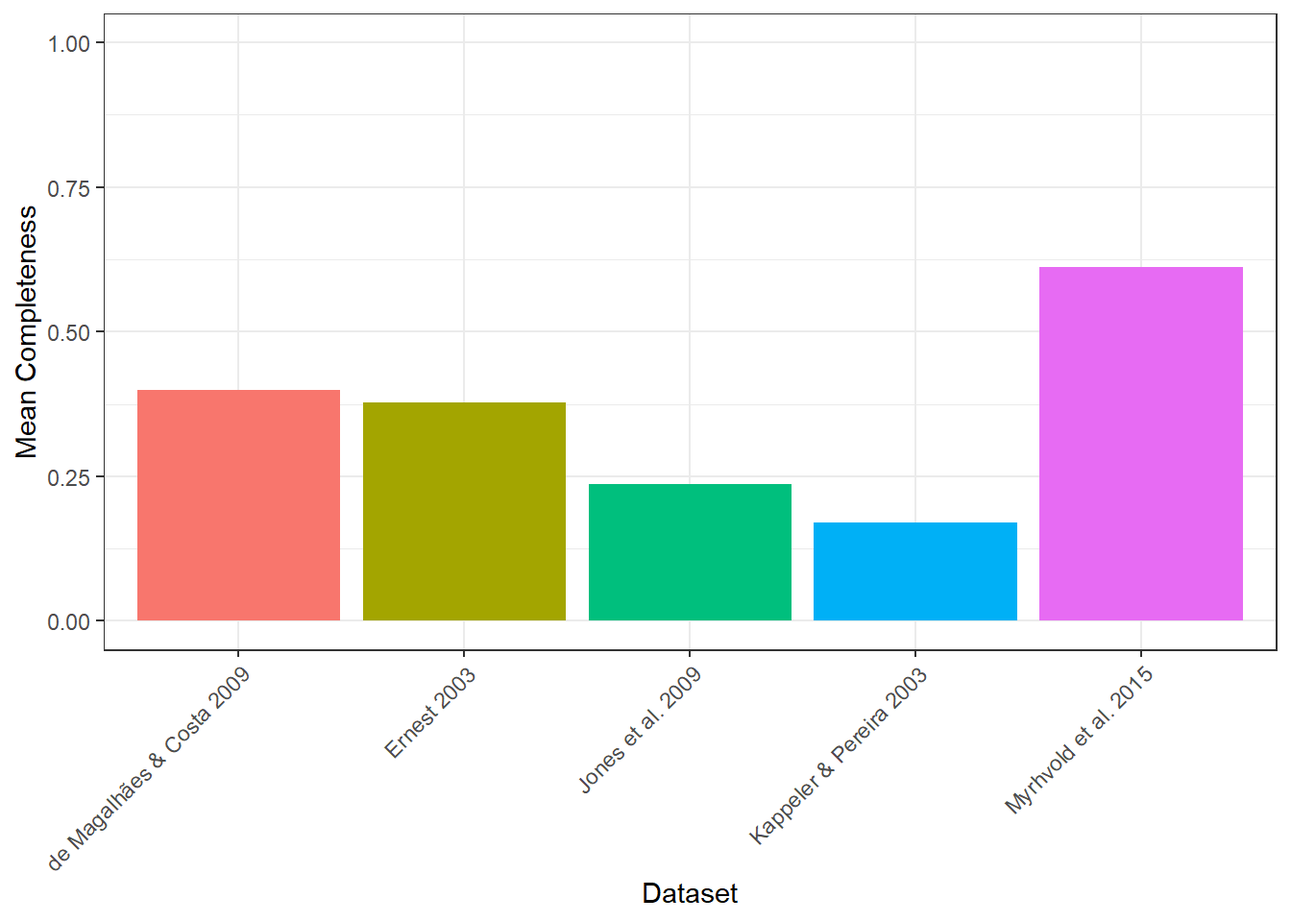
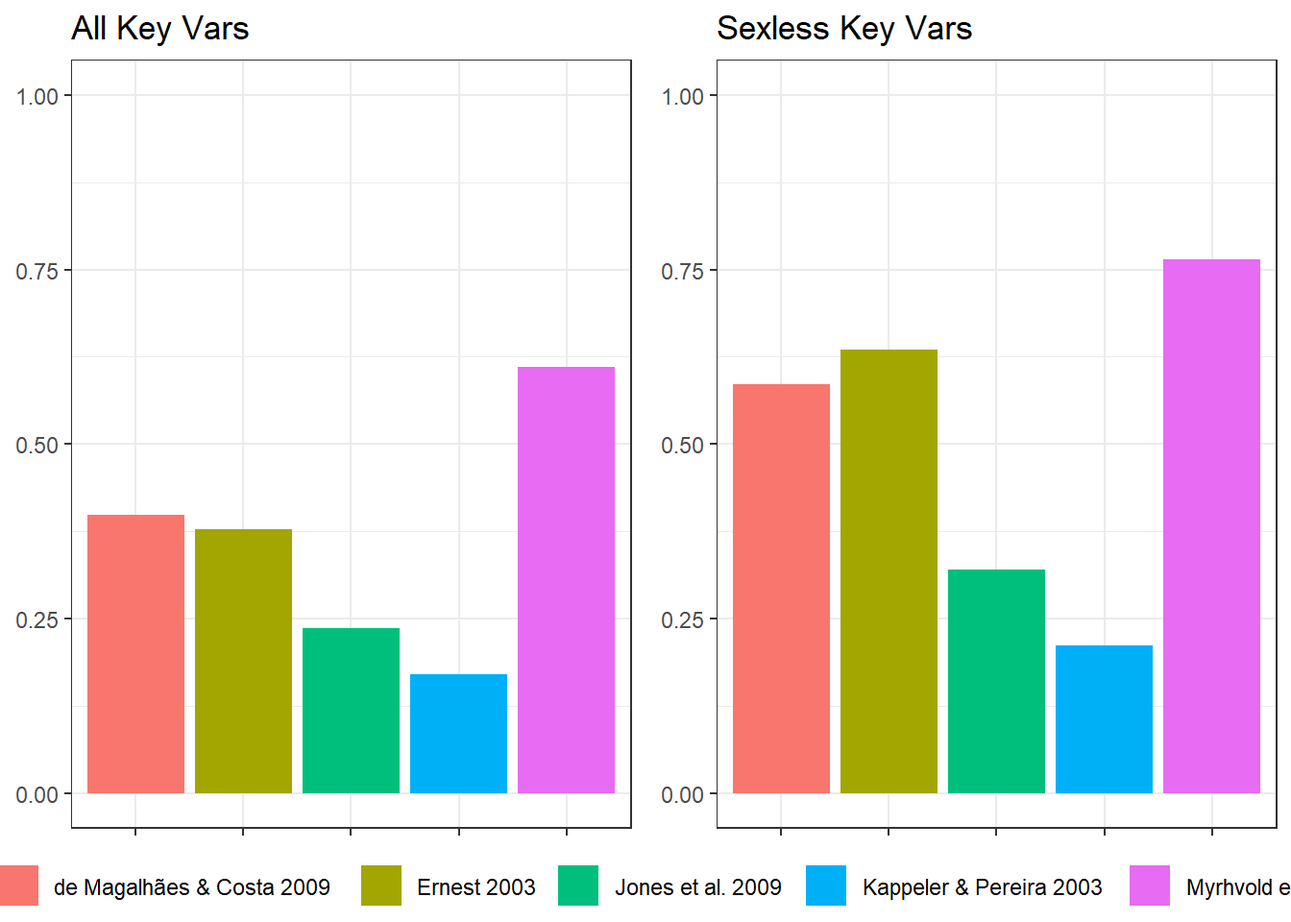
setup.R: - alphabetized the package list Database-Analysis.qmd: - completeness plots: -- fixed color overwrite of bar caps in composite plot -- replaced white bar cap with 50% opaquity color cap -- removed side by side bar charts

diff --git a/Database-Analysis.html b/Database-Analysis.html
@@ -188,7 +188,7 @@ window.Quarto = {
 <div class="sourceCode cell-code" id="cb2"><pre class="sourceCode r code-with-copy"><code class="sourceCode r"><span id="cb2-1"><a href="#cb2-1" aria-hidden="true" tabindex="-1"></a>sources <span class="ot">=</span> <span class="fu">c</span>(<span class="st">"Myrhvold et al. 2015"</span>, <span class="st">"de Magalhães &amp; Costa 2009"</span>, <span class="st">"Ernest 2003"</span>, <span class="st">"Jones et al. 2009"</span>, <span class="st">"Kappeler &amp; Pereira 2003"</span>)</span>
 <span id="cb2-2"><a href="#cb2-2" aria-hidden="true" tabindex="-1"></a></span>
 <span id="cb2-3"><a href="#cb2-3" aria-hidden="true" tabindex="-1"></a><span class="do">## selecting vars for cross-database comparison</span></span>
-<span id="cb2-4"><a href="#cb2-4" aria-hidden="true" tabindex="-1"></a>amniote_s <span class="ot">&lt;-</span> amniote_p <span class="sc">%&gt;%</span> </span>
+<span id="cb2-4"><a href="#cb2-4" aria-hidden="true" tabindex="-1"></a>amniote_s <span class="ot">&lt;-</span> amniote <span class="sc">%&gt;%</span> </span>
 <span id="cb2-5"><a href="#cb2-5" aria-hidden="true" tabindex="-1"></a>  <span class="fu">transmute</span>(</span>
 <span id="cb2-6"><a href="#cb2-6" aria-hidden="true" tabindex="-1"></a>    <span class="at">species =</span> <span class="fu">paste</span>(genus, species),</span>
 <span id="cb2-7"><a href="#cb2-7" aria-hidden="true" tabindex="-1"></a>    <span class="at">body_mass_u =</span> adult_body_mass_g,</span>
@@ -205,7 +205,7 @@ window.Quarto = {
 <span id="cb2-18"><a href="#cb2-18" aria-hidden="true" tabindex="-1"></a>    <span class="at">source =</span> sources[<span class="dv">1</span>]</span>
 <span id="cb2-19"><a href="#cb2-19" aria-hidden="true" tabindex="-1"></a>  )</span>
 <span id="cb2-20"><a href="#cb2-20" aria-hidden="true" tabindex="-1"></a></span>
-<span id="cb2-21"><a href="#cb2-21" aria-hidden="true" tabindex="-1"></a>AnAge_s <span class="ot">&lt;-</span> AnAge_p <span class="sc">%&gt;%</span> </span>
+<span id="cb2-21"><a href="#cb2-21" aria-hidden="true" tabindex="-1"></a>AnAge_s <span class="ot">&lt;-</span> AnAge <span class="sc">%&gt;%</span> </span>
 <span id="cb2-22"><a href="#cb2-22" aria-hidden="true" tabindex="-1"></a>  <span class="fu">transmute</span>(</span>
 <span id="cb2-23"><a href="#cb2-23" aria-hidden="true" tabindex="-1"></a>    <span class="at">species =</span> <span class="fu">paste</span>(Genus, Species),</span>
 <span id="cb2-24"><a href="#cb2-24" aria-hidden="true" tabindex="-1"></a>    <span class="at">body_mass_u =</span> <span class="st">`</span><span class="at">Body mass (g)</span><span class="st">`</span>,</span>
@@ -222,7 +222,7 @@ window.Quarto = {
 <span id="cb2-35"><a href="#cb2-35" aria-hidden="true" tabindex="-1"></a>    <span class="at">source =</span> sources[<span class="dv">2</span>]</span>
 <span id="cb2-36"><a href="#cb2-36" aria-hidden="true" tabindex="-1"></a>  )</span>
 <span id="cb2-37"><a href="#cb2-37" aria-hidden="true" tabindex="-1"></a></span>
-<span id="cb2-38"><a href="#cb2-38" aria-hidden="true" tabindex="-1"></a>ernest_s <span class="ot">&lt;-</span> ernest_p <span class="sc">%&gt;%</span> </span>
+<span id="cb2-38"><a href="#cb2-38" aria-hidden="true" tabindex="-1"></a>ernest_s <span class="ot">&lt;-</span> ernest <span class="sc">%&gt;%</span> </span>
 <span id="cb2-39"><a href="#cb2-39" aria-hidden="true" tabindex="-1"></a>  <span class="fu">transmute</span>(</span>
 <span id="cb2-40"><a href="#cb2-40" aria-hidden="true" tabindex="-1"></a>    <span class="at">species =</span> <span class="fu">paste</span>(Genus, species),</span>
 <span id="cb2-41"><a href="#cb2-41" aria-hidden="true" tabindex="-1"></a>    <span class="at">body_mass_u =</span> <span class="cn">NA</span>,</span>
@@ -239,7 +239,7 @@ window.Quarto = {
 <span id="cb2-52"><a href="#cb2-52" aria-hidden="true" tabindex="-1"></a>    <span class="at">source =</span> sources[<span class="dv">3</span>]</span>
 <span id="cb2-53"><a href="#cb2-53" aria-hidden="true" tabindex="-1"></a>  )</span>
 <span id="cb2-54"><a href="#cb2-54" aria-hidden="true" tabindex="-1"></a></span>
-<span id="cb2-55"><a href="#cb2-55" aria-hidden="true" tabindex="-1"></a>pan_s <span class="ot">&lt;-</span> pan_p <span class="sc">%&gt;%</span> </span>
+<span id="cb2-55"><a href="#cb2-55" aria-hidden="true" tabindex="-1"></a>pan_s <span class="ot">&lt;-</span> pan <span class="sc">%&gt;%</span> </span>
 <span id="cb2-56"><a href="#cb2-56" aria-hidden="true" tabindex="-1"></a>  <span class="fu">transmute</span>(</span>
 <span id="cb2-57"><a href="#cb2-57" aria-hidden="true" tabindex="-1"></a>    <span class="at">species =</span> <span class="fu">paste</span>(MSW05_Genus, MSW05_Species),</span>
 <span id="cb2-58"><a href="#cb2-58" aria-hidden="true" tabindex="-1"></a>    <span class="at">body_mass_u =</span> <span class="st">`</span><span class="at">5-1_AdultBodyMass_g</span><span class="st">`</span>,</span>
@@ -385,7 +385,7 @@ window.Quarto = {
 <span id="cb4-18"><a href="#cb4-18" aria-hidden="true" tabindex="-1"></a>  <span class="fu">group_by</span>(source, trait) <span class="sc">%&gt;%</span> </span>
 <span id="cb4-19"><a href="#cb4-19" aria-hidden="true" tabindex="-1"></a>  <span class="fu">summarize</span>(<span class="at">prop_missing =</span> <span class="fu">mean</span>(<span class="fu">is.na</span>(value)), <span class="at">.groups =</span> <span class="st">"drop"</span>)</span>
 <span id="cb4-20"><a href="#cb4-20" aria-hidden="true" tabindex="-1"></a></span>
-<span id="cb4-21"><a href="#cb4-21" aria-hidden="true" tabindex="-1"></a>missingness2 <span class="ot">&lt;-</span> key_vals <span class="sc">%&gt;%</span></span>
+<span id="cb4-21"><a href="#cb4-21" aria-hidden="true" tabindex="-1"></a>missingness_no_sex <span class="ot">&lt;-</span> key_vals <span class="sc">%&gt;%</span></span>
 <span id="cb4-22"><a href="#cb4-22" aria-hidden="true" tabindex="-1"></a>  <span class="fu">select</span>(<span class="sc">-</span><span class="fu">any_of</span>(<span class="fu">c</span>(<span class="st">"body_mass_u"</span>, <span class="st">"body_mass_f"</span>, <span class="st">"body_mass_m"</span>, <span class="st">"age_at_maturity_u"</span>, <span class="st">"age_at_maturity_f"</span>, <span class="st">"age_at_maturity_m"</span>))) <span class="sc">%&gt;%</span> </span>
 <span id="cb4-23"><a href="#cb4-23" aria-hidden="true" tabindex="-1"></a>  <span class="fu">pivot_longer</span>(<span class="at">cols =</span> <span class="sc">-</span><span class="fu">c</span>(species, source), </span>
 <span id="cb4-24"><a href="#cb4-24" aria-hidden="true" tabindex="-1"></a>               <span class="at">names_to =</span> <span class="st">"trait"</span>, </span>
@@ -411,7 +411,7 @@ window.Quarto = {
 <span id="cb4-44"><a href="#cb4-44" aria-hidden="true" tabindex="-1"></a>  ))</span>
 <span id="cb4-45"><a href="#cb4-45" aria-hidden="true" tabindex="-1"></a></span>
 <span id="cb4-46"><a href="#cb4-46" aria-hidden="true" tabindex="-1"></a><span class="do">## renames traits to look pretty on graph</span></span>
-<span id="cb4-47"><a href="#cb4-47" aria-hidden="true" tabindex="-1"></a>missingness2 <span class="ot">&lt;-</span> missingness2 <span class="sc">%&gt;%</span></span>
+<span id="cb4-47"><a href="#cb4-47" aria-hidden="true" tabindex="-1"></a>missingness_no_sex <span class="ot">&lt;-</span> missingness_no_sex <span class="sc">%&gt;%</span></span>
 <span id="cb4-48"><a href="#cb4-48" aria-hidden="true" tabindex="-1"></a>  <span class="fu">mutate</span>(<span class="at">trait =</span> <span class="fu">case_when</span>(</span>
 <span id="cb4-49"><a href="#cb4-49" aria-hidden="true" tabindex="-1"></a>    trait <span class="sc">==</span> <span class="st">"max_longevity"</span> <span class="sc">~</span> <span class="st">"Lifespan (Years)"</span>,</span>
 <span id="cb4-50"><a href="#cb4-50" aria-hidden="true" tabindex="-1"></a>    trait <span class="sc">==</span> <span class="st">"IBI"</span> <span class="sc">~</span> <span class="st">"Interbirth Interval (Days)"</span>,</span>
@@ -448,14 +448,37 @@ window.Quarto = {
 <span id="cb5-13"><a href="#cb5-13" aria-hidden="true" tabindex="-1"></a>  <span class="fu">mutate</span>(<span class="at">mean_completeness =</span> <span class="dv">1</span> <span class="sc">-</span> mean_missingness)</span>
 <span id="cb5-14"><a href="#cb5-14" aria-hidden="true" tabindex="-1"></a></span>
 <span id="cb5-15"><a href="#cb5-15" aria-hidden="true" tabindex="-1"></a><span class="do">## removing sexed variables</span></span>
-<span id="cb5-16"><a href="#cb5-16" aria-hidden="true" tabindex="-1"></a>mean_missing_no_sex <span class="ot">&lt;-</span> missingness2 <span class="sc">%&gt;%</span> </span>
+<span id="cb5-16"><a href="#cb5-16" aria-hidden="true" tabindex="-1"></a>mean_missing_no_sex <span class="ot">&lt;-</span> missingness_no_sex <span class="sc">%&gt;%</span> </span>
 <span id="cb5-17"><a href="#cb5-17" aria-hidden="true" tabindex="-1"></a>  <span class="fu">group_by</span>(source) <span class="sc">%&gt;%</span> </span>
 <span id="cb5-18"><a href="#cb5-18" aria-hidden="true" tabindex="-1"></a>  <span class="fu">summarise</span>(</span>
-<span id="cb5-19"><a href="#cb5-19" aria-hidden="true" tabindex="-1"></a>    <span class="at">mean_missingness =</span> <span class="fu">mean</span>(prop_missing)</span>
+<span id="cb5-19"><a href="#cb5-19" aria-hidden="true" tabindex="-1"></a>    <span class="at">mean_missingness_no_sex =</span> <span class="fu">mean</span>(prop_missing)</span>
 <span id="cb5-20"><a href="#cb5-20" aria-hidden="true" tabindex="-1"></a>  )</span>
 <span id="cb5-21"><a href="#cb5-21" aria-hidden="true" tabindex="-1"></a></span>
-<span id="cb5-22"><a href="#cb5-22" aria-hidden="true" tabindex="-1"></a>mean_complete_no_sex <span class="ot">&lt;-</span> mean_missing_no_sex <span class="sc">%&gt;%</span> </span>
-<span id="cb5-23"><a href="#cb5-23" aria-hidden="true" tabindex="-1"></a>  <span class="fu">mutate</span>(<span class="at">mean_completeness =</span> <span class="dv">1</span> <span class="sc">-</span> mean_missingness)</span></code><button title="Copy to Clipboard" class="code-copy-button"><i class="bi"></i></button></pre></div>
+<span id="cb5-22"><a href="#cb5-22" aria-hidden="true" tabindex="-1"></a><span class="do">## takes the inverse proportion of the mean missingness</span></span>
+<span id="cb5-23"><a href="#cb5-23" aria-hidden="true" tabindex="-1"></a><span class="do">## for each database to give mean completeness</span></span>
+<span id="cb5-24"><a href="#cb5-24" aria-hidden="true" tabindex="-1"></a>mean_complete_no_sex <span class="ot">&lt;-</span> mean_missing_no_sex <span class="sc">%&gt;%</span> </span>
+<span id="cb5-25"><a href="#cb5-25" aria-hidden="true" tabindex="-1"></a>  <span class="fu">mutate</span>(<span class="at">mean_completeness_no_sex =</span> <span class="dv">1</span> <span class="sc">-</span> mean_missingness_no_sex)</span>
+<span id="cb5-26"><a href="#cb5-26" aria-hidden="true" tabindex="-1"></a></span>
+<span id="cb5-27"><a href="#cb5-27" aria-hidden="true" tabindex="-1"></a>composite_completeness <span class="ot">&lt;-</span> mean_complete <span class="sc">%&gt;%</span> </span>
+<span id="cb5-28"><a href="#cb5-28" aria-hidden="true" tabindex="-1"></a>  <span class="fu">inner_join</span>(mean_complete_no_sex, <span class="at">by =</span> <span class="st">"source"</span>) <span class="sc">%&gt;%</span> </span>
+<span id="cb5-29"><a href="#cb5-29" aria-hidden="true" tabindex="-1"></a>  <span class="fu">mutate</span>(</span>
+<span id="cb5-30"><a href="#cb5-30" aria-hidden="true" tabindex="-1"></a>    <span class="at">cap =</span> <span class="fu">pmax</span>(<span class="dv">0</span>, mean_completeness_no_sex <span class="sc">-</span> mean_completeness)</span>
+<span id="cb5-31"><a href="#cb5-31" aria-hidden="true" tabindex="-1"></a>  )</span>
+<span id="cb5-32"><a href="#cb5-32" aria-hidden="true" tabindex="-1"></a></span>
+<span id="cb5-33"><a href="#cb5-33" aria-hidden="true" tabindex="-1"></a>composite_plot <span class="ot">&lt;-</span> composite_completeness <span class="sc">%&gt;%</span> </span>
+<span id="cb5-34"><a href="#cb5-34" aria-hidden="true" tabindex="-1"></a>  <span class="fu">select</span>(source, mean_completeness, cap) <span class="sc">%&gt;%</span> </span>
+<span id="cb5-35"><a href="#cb5-35" aria-hidden="true" tabindex="-1"></a>  <span class="fu">pivot_longer</span>(</span>
+<span id="cb5-36"><a href="#cb5-36" aria-hidden="true" tabindex="-1"></a>    <span class="at">cols =</span> <span class="fu">c</span>(mean_completeness, cap),</span>
+<span id="cb5-37"><a href="#cb5-37" aria-hidden="true" tabindex="-1"></a>    <span class="at">names_to =</span> <span class="st">"segment"</span>,</span>
+<span id="cb5-38"><a href="#cb5-38" aria-hidden="true" tabindex="-1"></a>    <span class="at">values_to =</span> <span class="st">"value"</span></span>
+<span id="cb5-39"><a href="#cb5-39" aria-hidden="true" tabindex="-1"></a>  ) <span class="sc">%&gt;%</span> </span>
+<span id="cb5-40"><a href="#cb5-40" aria-hidden="true" tabindex="-1"></a>  <span class="fu">mutate</span>(</span>
+<span id="cb5-41"><a href="#cb5-41" aria-hidden="true" tabindex="-1"></a>    <span class="at">segment =</span> <span class="fu">recode</span>(segment,</span>
+<span id="cb5-42"><a href="#cb5-42" aria-hidden="true" tabindex="-1"></a>                     <span class="at">mean_completeness =</span> <span class="st">"All Key Vars"</span>,</span>
+<span id="cb5-43"><a href="#cb5-43" aria-hidden="true" tabindex="-1"></a>                     <span class="at">cap =</span> <span class="st">"Sexless Key Vars"</span></span>
+<span id="cb5-44"><a href="#cb5-44" aria-hidden="true" tabindex="-1"></a>                     ),</span>
+<span id="cb5-45"><a href="#cb5-45" aria-hidden="true" tabindex="-1"></a>    <span class="at">source =</span> <span class="fu">factor</span>(source, <span class="at">levels =</span> <span class="fu">unique</span>(source))</span>
+<span id="cb5-46"><a href="#cb5-46" aria-hidden="true" tabindex="-1"></a>  )</span></code><button title="Copy to Clipboard" class="code-copy-button"><i class="bi"></i></button></pre></div>
 </details>
 </div>
 </section>
@@ -464,7 +487,7 @@ window.Quarto = {
 <div class="cell">
 <details class="code-fold">
 <summary>Code</summary>
-<div class="sourceCode cell-code" id="cb6"><pre class="sourceCode r code-with-copy"><code class="sourceCode r"><span id="cb6-1"><a href="#cb6-1" aria-hidden="true" tabindex="-1"></a><span class="fu">ggplot</span>(missingness, <span class="fu">aes</span>(<span class="at">x =</span> source, <span class="at">y =</span> trait, <span class="at">fill =</span> prop_missing)) <span class="sc">+</span></span>
+<div class="sourceCode cell-code" id="cb6"><pre class="sourceCode r code-with-copy"><code class="sourceCode r"><span id="cb6-1"><a href="#cb6-1" aria-hidden="true" tabindex="-1"></a>prop_missing <span class="ot">&lt;-</span> <span class="fu">ggplot</span>(missingness, <span class="fu">aes</span>(<span class="at">x =</span> source, <span class="at">y =</span> trait, <span class="at">fill =</span> prop_missing)) <span class="sc">+</span></span>
 <span id="cb6-2"><a href="#cb6-2" aria-hidden="true" tabindex="-1"></a>  <span class="fu">geom_tile</span>(<span class="at">color =</span> <span class="st">"snow"</span>) <span class="sc">+</span></span>
 <span id="cb6-3"><a href="#cb6-3" aria-hidden="true" tabindex="-1"></a>  <span class="fu">scale_fill_gradientn</span>(</span>
 <span id="cb6-4"><a href="#cb6-4" aria-hidden="true" tabindex="-1"></a>    <span class="at">colors =</span> <span class="fu">rev</span>(colorspace<span class="sc">::</span><span class="fu">heat_hcl</span>(<span class="dv">100</span>)),</span>
@@ -481,13 +504,6 @@ window.Quarto = {
 <span id="cb6-15"><a href="#cb6-15" aria-hidden="true" tabindex="-1"></a>    <span class="at">x =</span> <span class="st">"Dataset"</span>, </span>
 <span id="cb6-16"><a href="#cb6-16" aria-hidden="true" tabindex="-1"></a>    <span class="at">y =</span> <span class="st">"Trait"</span>)</span></code><button title="Copy to Clipboard" class="code-copy-button"><i class="bi"></i></button></pre></div>
 </details>
-<div class="cell-output-display">
-<div>
-<figure class="figure">
-<p><img src="Database-Analysis_files/figure-html/heatmap%20visualization-1.png" class="img-fluid figure-img" width="672"></p>
-</figure>
-</div>
-</div>
 </div>
 <p>Trends:</p>
 <ul>
@@ -499,49 +515,48 @@ window.Quarto = {
 <div class="cell">
 <details class="code-fold">
 <summary>Code</summary>
-<div class="sourceCode cell-code" id="cb7"><pre class="sourceCode r code-with-copy"><code class="sourceCode r"><span id="cb7-1"><a href="#cb7-1" aria-hidden="true" tabindex="-1"></a><span class="fu">ggplot</span>(mean_complete,</span>
-<span id="cb7-2"><a href="#cb7-2" aria-hidden="true" tabindex="-1"></a>       <span class="fu">aes</span>(<span class="at">x =</span> source, <span class="at">y =</span> mean_completeness, <span class="at">fill =</span> source)) <span class="sc">+</span></span>
-<span id="cb7-3"><a href="#cb7-3" aria-hidden="true" tabindex="-1"></a>  <span class="fu">geom_col</span>(<span class="at">show.legend =</span> <span class="cn">FALSE</span>) <span class="sc">+</span></span>
-<span id="cb7-4"><a href="#cb7-4" aria-hidden="true" tabindex="-1"></a>  <span class="fu">labs</span>(</span>
-<span id="cb7-5"><a href="#cb7-5" aria-hidden="true" tabindex="-1"></a>    <span class="at">x =</span> <span class="st">"Dataset"</span>,</span>
-<span id="cb7-6"><a href="#cb7-6" aria-hidden="true" tabindex="-1"></a>    <span class="at">y =</span> <span class="st">"Mean Completeness"</span></span>
-<span id="cb7-7"><a href="#cb7-7" aria-hidden="true" tabindex="-1"></a>  ) <span class="sc">+</span></span>
-<span id="cb7-8"><a href="#cb7-8" aria-hidden="true" tabindex="-1"></a>  <span class="fu">ylim</span>(<span class="dv">0</span>, <span class="dv">1</span>) <span class="sc">+</span> </span>
-<span id="cb7-9"><a href="#cb7-9" aria-hidden="true" tabindex="-1"></a>  <span class="fu">theme_bw</span>() <span class="sc">+</span></span>
-<span id="cb7-10"><a href="#cb7-10" aria-hidden="true" tabindex="-1"></a>  <span class="fu">theme</span>(<span class="at">axis.text.x =</span> <span class="fu">element_text</span>(<span class="at">angle =</span> <span class="dv">45</span>, <span class="at">hjust =</span> <span class="dv">1</span>))</span></code><button title="Copy to Clipboard" class="code-copy-button"><i class="bi"></i></button></pre></div>
+<div class="sourceCode cell-code" id="cb7"><pre class="sourceCode r code-with-copy"><code class="sourceCode r"><span id="cb7-1"><a href="#cb7-1" aria-hidden="true" tabindex="-1"></a><span class="co"># make a named palette once so fill &amp; color match perfectly</span></span>
+<span id="cb7-2"><a href="#cb7-2" aria-hidden="true" tabindex="-1"></a>src_levels <span class="ot">&lt;-</span> <span class="fu">levels</span>(composite_plot<span class="sc">$</span>source)</span>
+<span id="cb7-3"><a href="#cb7-3" aria-hidden="true" tabindex="-1"></a>src_pal <span class="ot">&lt;-</span> <span class="fu">setNames</span>(scales<span class="sc">::</span><span class="fu">hue_pal</span>()(<span class="fu">length</span>(src_levels)), src_levels)</span>
+<span id="cb7-4"><a href="#cb7-4" aria-hidden="true" tabindex="-1"></a></span>
+<span id="cb7-5"><a href="#cb7-5" aria-hidden="true" tabindex="-1"></a><span class="fu">ggplot</span>(composite_completeness, <span class="fu">aes</span>(<span class="at">x =</span> source)) <span class="sc">+</span></span>
+<span id="cb7-6"><a href="#cb7-6" aria-hidden="true" tabindex="-1"></a>  <span class="co"># draw Sexless first (white interior, colored outline)</span></span>
+<span id="cb7-7"><a href="#cb7-7" aria-hidden="true" tabindex="-1"></a>  <span class="fu">geom_col</span>(</span>
+<span id="cb7-8"><a href="#cb7-8" aria-hidden="true" tabindex="-1"></a>    <span class="fu">aes</span>(<span class="at">y =</span> mean_completeness_no_sex, <span class="at">fill =</span> source, <span class="at">color =</span> source),</span>
+<span id="cb7-9"><a href="#cb7-9" aria-hidden="true" tabindex="-1"></a>    <span class="at">alpha =</span> <span class="fl">0.5</span>,</span>
+<span id="cb7-10"><a href="#cb7-10" aria-hidden="true" tabindex="-1"></a>    <span class="at">width =</span> <span class="fl">0.75</span>,</span>
+<span id="cb7-11"><a href="#cb7-11" aria-hidden="true" tabindex="-1"></a>    <span class="at">linewidth =</span> <span class="fl">0.6</span>,</span>
+<span id="cb7-12"><a href="#cb7-12" aria-hidden="true" tabindex="-1"></a>    <span class="at">show.legend =</span> <span class="cn">FALSE</span></span>
+<span id="cb7-13"><a href="#cb7-13" aria-hidden="true" tabindex="-1"></a>  ) <span class="sc">+</span></span>
+<span id="cb7-14"><a href="#cb7-14" aria-hidden="true" tabindex="-1"></a>  <span class="fu">geom_col</span>(</span>
+<span id="cb7-15"><a href="#cb7-15" aria-hidden="true" tabindex="-1"></a>    <span class="fu">aes</span>(<span class="at">y =</span> mean_completeness, <span class="at">fill =</span> source),</span>
+<span id="cb7-16"><a href="#cb7-16" aria-hidden="true" tabindex="-1"></a>    <span class="at">width =</span> <span class="fl">0.75</span></span>
+<span id="cb7-17"><a href="#cb7-17" aria-hidden="true" tabindex="-1"></a>  ) <span class="sc">+</span></span>
+<span id="cb7-18"><a href="#cb7-18" aria-hidden="true" tabindex="-1"></a>  <span class="fu">coord_cartesian</span>(<span class="at">ylim =</span> <span class="fu">c</span>(<span class="dv">0</span>, <span class="dv">1</span>)) <span class="sc">+</span></span>
+<span id="cb7-19"><a href="#cb7-19" aria-hidden="true" tabindex="-1"></a>  <span class="fu">scale_fill_manual</span>(<span class="at">values =</span> src_pal) <span class="sc">+</span></span>
+<span id="cb7-20"><a href="#cb7-20" aria-hidden="true" tabindex="-1"></a>  <span class="fu">scale_color_manual</span>(<span class="at">values =</span> src_pal, <span class="at">guide =</span> <span class="st">"none"</span>) <span class="sc">+</span></span>
+<span id="cb7-21"><a href="#cb7-21" aria-hidden="true" tabindex="-1"></a>  <span class="fu">labs</span>(</span>
+<span id="cb7-22"><a href="#cb7-22" aria-hidden="true" tabindex="-1"></a>    <span class="at">x =</span> <span class="st">"Source Database"</span>,</span>
+<span id="cb7-23"><a href="#cb7-23" aria-hidden="true" tabindex="-1"></a>    <span class="at">y =</span> <span class="st">"Mean Completeness"</span>,</span>
+<span id="cb7-24"><a href="#cb7-24" aria-hidden="true" tabindex="-1"></a>    <span class="at">title =</span> <span class="st">"Mean Completeness of Sexless vs All Key Vars"</span></span>
+<span id="cb7-25"><a href="#cb7-25" aria-hidden="true" tabindex="-1"></a>  ) <span class="sc">+</span></span>
+<span id="cb7-26"><a href="#cb7-26" aria-hidden="true" tabindex="-1"></a>  <span class="fu">theme_bw</span>() <span class="sc">+</span></span>
+<span id="cb7-27"><a href="#cb7-27" aria-hidden="true" tabindex="-1"></a>  <span class="fu">theme</span>(</span>
+<span id="cb7-28"><a href="#cb7-28" aria-hidden="true" tabindex="-1"></a>    <span class="at">legend.position =</span> <span class="st">"bottom"</span>,</span>
+<span id="cb7-29"><a href="#cb7-29" aria-hidden="true" tabindex="-1"></a>    <span class="at">axis.text.x =</span> <span class="fu">element_text</span>(<span class="at">angle =</span> <span class="dv">33</span>, <span class="at">hjust =</span> <span class="dv">1</span>)</span>
+<span id="cb7-30"><a href="#cb7-30" aria-hidden="true" tabindex="-1"></a>  )</span></code><button title="Copy to Clipboard" class="code-copy-button"><i class="bi"></i></button></pre></div>
 </details>
 <div class="cell-output-display">
 <div>
 <figure class="figure">
-<p><img src="Database-Analysis_files/figure-html/completeness%20bar%20plots-1.png" class="img-fluid figure-img" width="672"></p>
-</figure>
-</div>
-</div>
-<details class="code-fold">
-<summary>Code</summary>
-<div class="sourceCode cell-code" id="cb8"><pre class="sourceCode r code-with-copy"><code class="sourceCode r"><span id="cb8-1"><a href="#cb8-1" aria-hidden="true" tabindex="-1"></a><span class="fu">ggplot</span>(mean_complete_no_sex,</span>
-<span id="cb8-2"><a href="#cb8-2" aria-hidden="true" tabindex="-1"></a>       <span class="fu">aes</span>(<span class="at">x =</span> source, <span class="at">y =</span> mean_completeness, <span class="at">fill =</span> source)) <span class="sc">+</span></span>
-<span id="cb8-3"><a href="#cb8-3" aria-hidden="true" tabindex="-1"></a>  <span class="fu">geom_col</span>(<span class="at">show.legend =</span> <span class="cn">FALSE</span>) <span class="sc">+</span></span>
-<span id="cb8-4"><a href="#cb8-4" aria-hidden="true" tabindex="-1"></a>  <span class="fu">labs</span>(</span>
-<span id="cb8-5"><a href="#cb8-5" aria-hidden="true" tabindex="-1"></a>    <span class="at">x =</span> <span class="st">"Dataset"</span>,</span>
-<span id="cb8-6"><a href="#cb8-6" aria-hidden="true" tabindex="-1"></a>    <span class="at">y =</span> <span class="st">"Mean Completeness"</span></span>
-<span id="cb8-7"><a href="#cb8-7" aria-hidden="true" tabindex="-1"></a>  ) <span class="sc">+</span></span>
-<span id="cb8-8"><a href="#cb8-8" aria-hidden="true" tabindex="-1"></a>  <span class="fu">ylim</span>(<span class="dv">0</span>, <span class="dv">1</span>) <span class="sc">+</span> </span>
-<span id="cb8-9"><a href="#cb8-9" aria-hidden="true" tabindex="-1"></a>  <span class="fu">theme_bw</span>() <span class="sc">+</span></span>
-<span id="cb8-10"><a href="#cb8-10" aria-hidden="true" tabindex="-1"></a>  <span class="fu">theme</span>(<span class="at">axis.text.x =</span> <span class="fu">element_text</span>(<span class="at">angle =</span> <span class="dv">45</span>, <span class="at">hjust =</span> <span class="dv">1</span>))</span></code><button title="Copy to Clipboard" class="code-copy-button"><i class="bi"></i></button></pre></div>
-</details>
-<div class="cell-output-display">
-<div>
-<figure class="figure">
-<p><img src="Database-Analysis_files/figure-html/completeness%20bar%20plots-2.png" class="img-fluid figure-img" width="672"></p>
+<p><img src="Database-Analysis_files/figure-html/layered%20bar%20chart-1.png" class="img-fluid figure-img" width="672"></p>
 </figure>
 </div>
 </div>
 </div>
 <ul>
 <li>removing sexed vars improves completeness of all databases</li>
-<li>check significance of difference^ chi-sq?</li>
-<li></li>
+<li>check significance of difference^ 2tail?</li>
 </ul>
 </section>
 </section>
